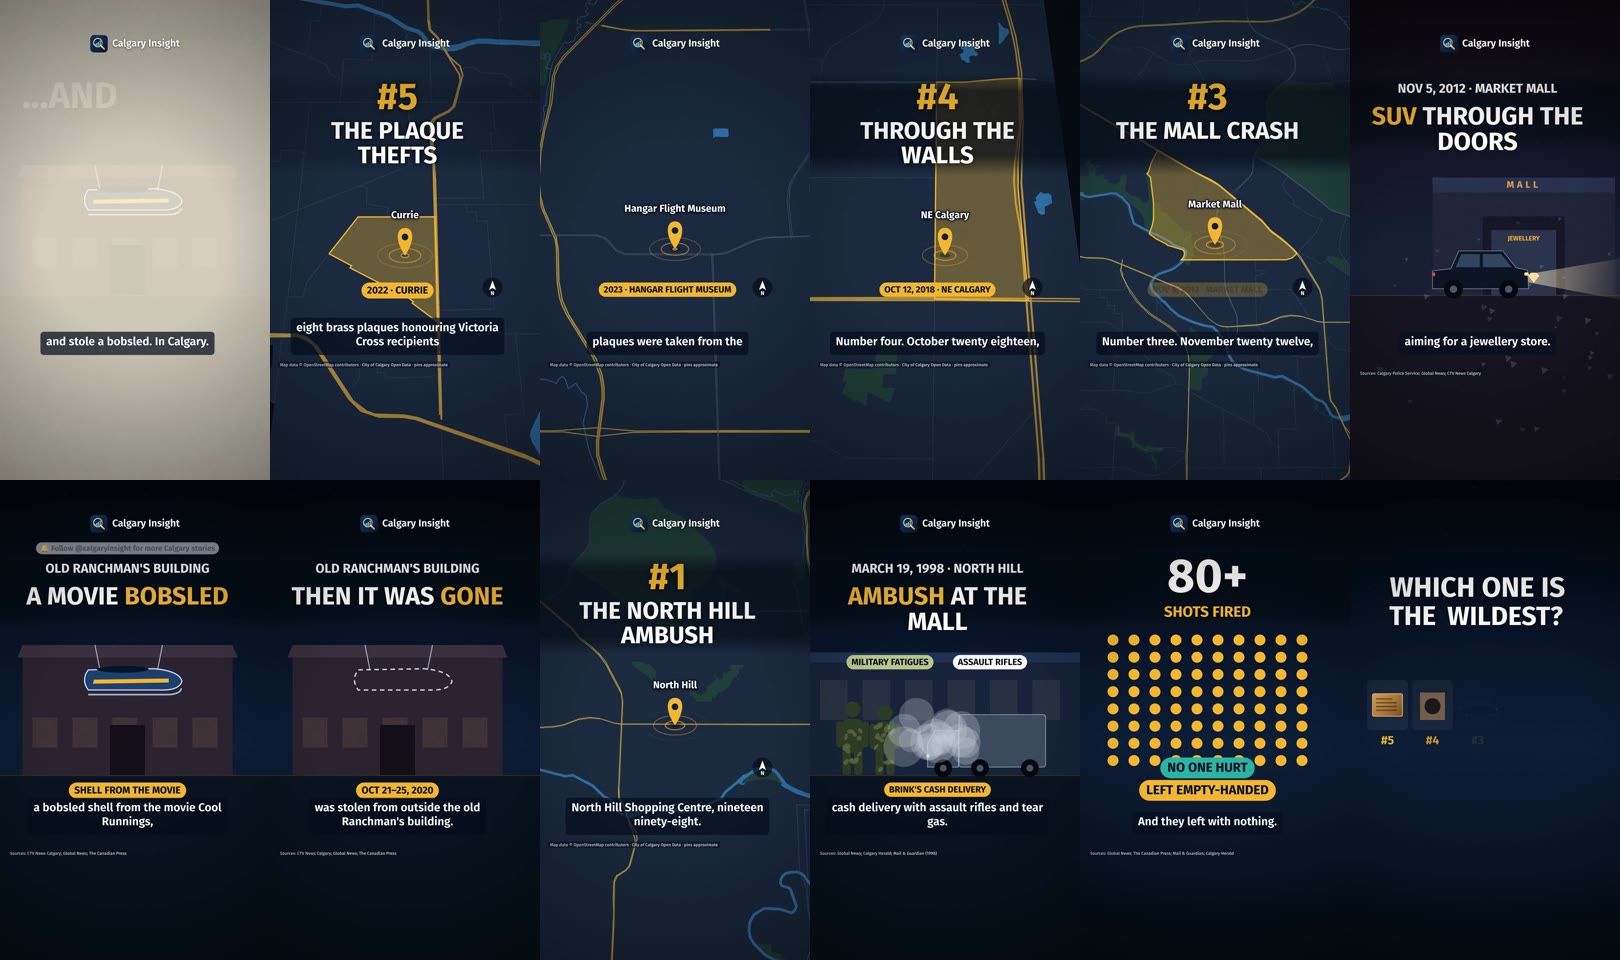
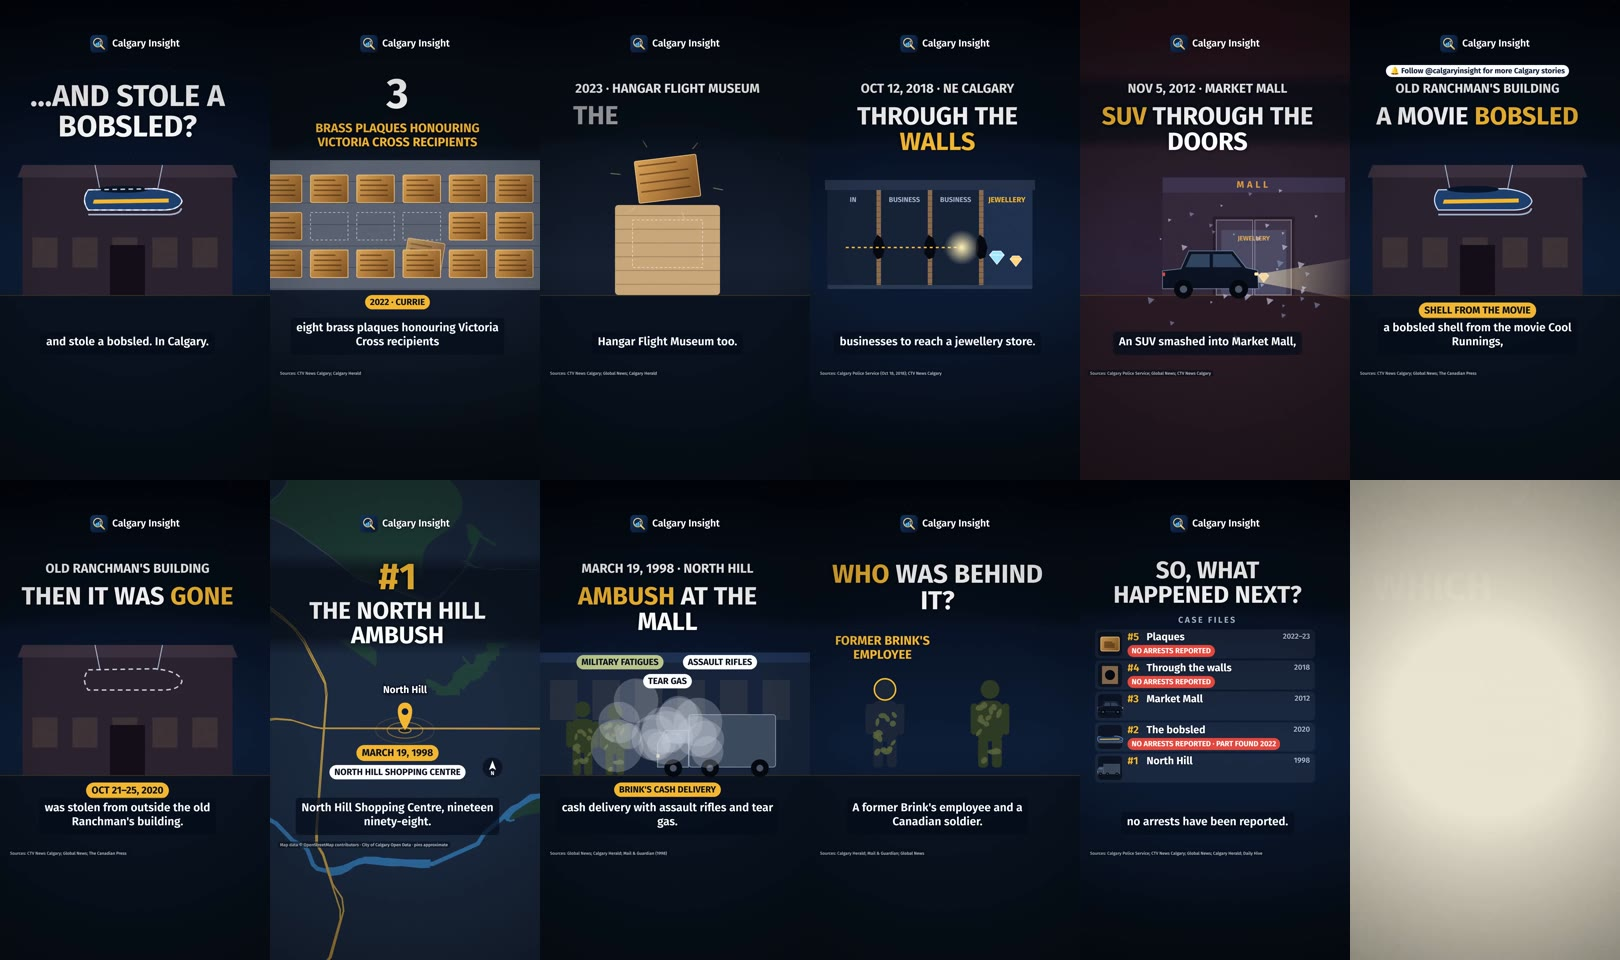
Heists special v2: conclusion (what happened next), re-audited APPROVED, scheduled Nov 20 19:30

diff --git a/production/2026-11-20-HEISTS/scene.js b/production/2026-11-20-HEISTS/scene.js
@@ -17,7 +17,10 @@ const S = M.script([
   { text: 'Nearly two years later, police found part of it. Only part.', dur: 3.194 },
   { text: "And number one. North Hill Shopping Centre, nineteen ninety-eight. Two men in military fatigues ambushed a Brink's cash delivery with assault rifles and tear gas.", dur: 9.655 },
   { text: 'More than eighty shots were fired. No one was hurt. And they left with nothing.', dur: 4.142 },
-  { text: "The men behind it? A former Brink's employee and a Canadian soldier. Both went to prison.", dur: 5.327 },
+  { text: "The men behind it? A former Brink's employee and a Canadian soldier.", dur: 4.046 },
+  { text: 'So, what happened next? For the plaques, the walls and the bobsled, no arrests have been reported.', dur: 5.229 },
+  { text: 'At Market Mall, police charged one man, and kept looking for a second suspect.', dur: 4.348 },
+  { text: 'And North Hill? Both men went to prison.', dur: 2.203 },
   { text: 'Which one is the wildest? Comment below.', dur: 2.32 },
 ], { lead: .3, gap: .3, tail: 1.4 });
 const sc = S.scenes;
@@ -166,6 +169,33 @@ function chapter(c, t, num, title, o = {}) {   // countdown chapter card (mini h
 }
 const src = (c, s) => M.source(c, s, 40, 1486, { size: 17 });
 
+// conclusion board: what happened next (rows stay in countdown order; statuses fill in as the narration names them)
+function board(c, T) {
+  night(c, T, { seed: 6 });
+  const L11 = 0, L12 = sc[11].sceneDur, L13 = sc[11].sceneDur + sc[12].sceneDur;
+  band(c, 290, 560, .72); M.kinetic(c, 'So, what happened next?', T, CX, 318, { t0: -.1, size: 96, maxW: 880, highlight: ['next?'] });
+  M.text(c, 'CASE FILES', CX, 545, { size: 34, weight: 800, align: 'center', color: '#9fb0c8', tracking: .2, alpha: M.seg(T, .3, .6) });
+  const rows = [
+    ['5', 'Plaques', '2022–23', 'NO ARRESTS REPORTED', RED, '#fff', L11 + 1.5, (x, y) => plaque(c, x, y, 74, 56)],
+    ['4', 'Through the walls', '2018', 'NO ARRESTS REPORTED', RED, '#fff', L11 + 2.3, (x, y) => { c.fillStyle = '#8a6b4f'; c.fillRect(x - 32, y - 36, 64, 72); c.fillStyle = '#05080f'; c.beginPath(); c.arc(x, y, 20, 0, 7); c.fill(); }],
+    ['3', 'Market Mall', '2012', '1 MAN CHARGED · 2ND SUSPECT SOUGHT', GOLD, '#06101f', L12 + .4, (x, y) => suv(c, x - 50, y + 30, .28)],
+    ['2', 'The bobsled', '2020', 'NO ARRESTS REPORTED · PART FOUND 2022', RED, '#fff', L11 + 3.1, (x, y) => sled(c, x - 52, y + 18, .3)],
+    ['1', 'North Hill', '1998', 'BOTH WENT TO PRISON', TEAL, '#06101f', L13 + .6, (x, y) => truck(c, x - 50, y + 30, .2)],
+  ];
+  rows.forEach(([n, name, yr, status, bg, fg, at, icon], i) => {
+    const y = 598 + i * 124, a = M.seg(T, .25 + i * .1, .55 + i * .1);
+    c.save(); c.globalAlpha = a; c.fillStyle = 'rgba(255,255,255,.06)'; M.rr(c, 60, y, 880, 116, 18); c.fill();
+    c.fillStyle = 'rgba(7,13,24,.7)'; M.rr(c, 72, y + 10, 96, 96, 14); c.fill(); icon(120, y + 58);
+    M.text(c, '#' + n, 190, y + 10, { size: 42, weight: 900, color: GOLD });
+    M.text(c, name, 266, y + 10, { size: 42, weight: 800, color: '#fff' }); M.text(c, yr, 920, y + 14, { size: 30, weight: 700, align: 'right', color: '#9fb0c8' });
+    c.restore();
+    const k = M.seg(T, at, at + .3); if (k > 0) { c.save(); c.globalAlpha = Math.min(1, k * 1.5); const sc2 = M.lerp(1.4, 1, M.ease.outBack(k)); c.translate(190, y + 86); c.scale(sc2, sc2); M.chip(c, status, 0, -24, { size: 30, bg, color: fg }); c.restore(); }
+    if (n === '1') { const b = M.seg(T, L13 + .3, L13 + .65, 'outCubic'); if (b > 0) { const by = M.lerp(y - 400, y, b); c.save(); c.beginPath(); c.rect(72, y + 10, 96, 96); c.clip(); c.fillStyle = 'rgba(160,170,185,.95)'; for (let j = 0; j < 5; j++) { M.rr(c, 78 + j * 20, by + 10, 8, 96, 3); c.fill(); } c.restore(); } }
+  });
+  src(c, 'Sources: Calgary Police Service; CTV News Calgary; Global News; Calgary Herald; Daily Hive');
+}
+
+
 window.BUILD = () => M.film({ W, H, identity: 'storyteller', scenes: [
   // 0 HOOK: frame 0 an SUV is already bursting through mall doors at night; then walls, then the empty bobsled outline
   { dur: sc[0].sceneDur, trans: { kind: 'whip', dur: .35 }, draw: (c, t) => {
@@ -304,14 +334,16 @@ window.BUILD = () => M.film({ W, H, identity: 'storyteller', scenes: [
       figure(c, 300, 1150, 1.25, { seed: 3, col: '#1b2638', hl: t > .9 && t < 2.6 }); figure(c, 720, 1150, 1.25, { seed: 8, col: '#2f3a24', hl: t > 2.4 && t < 3.9 });
       M.text(c, "FORMER BRINK'S EMPLOYEE", 290, 620, { size: 50, weight: 800, align: 'center', maxW: 400, color: GOLD, alpha: M.seg(t, .9, 1.2) });
       M.text(c, 'CANADIAN SOLDIER', 730, 620, { size: 50, weight: 800, align: 'center', maxW: 380, color: GOLD, alpha: M.seg(t, 2.4, 2.7) });
-      const bars = M.seg(t, 3.7, 4.1, 'outCubic'); if (bars > 0) { const by = M.lerp(-500, 790, bars); c.fillStyle = '#7d8796'; for (let i = 0; i < 9; i++) { M.rr(c, 90 + i * 100, by, 20, 400, 8); c.fill(); } c.fillRect(70, by - 10, 880, 24); }
       band(c, 290, 600, .7); M.kinetic(c, 'Who was behind it?', t, CX, 330, { t0: -.1, size: 104, maxW: 880, highlight: ['who'] });
-      stamp(c, 'BOTH WENT TO PRISON', CX, 1210, M.seg(t, 4.1, 4.5), { size: 56, color: GOLD });
       src(c, 'Sources: Calgary Herald; Mail & Guardian; Global News');
   } },
-  // 11 CLOSER: the five icons and the one-word question; no end card (video under 2:00)
-  { dur: sc[11].sceneDur, draw: (c, t) => {
-      night(c, t, { seed: 11 }); const p = M.seg(t, 0, sc[11].sceneDur, 'linear');
+  // 11–13 CONCLUSION: the case-files board fills in line by line (same picture across three narration lines)
+  { dur: sc[11].sceneDur, trans: { kind: 'cut' }, draw: (c, t) => board(c, t) },
+  { dur: sc[12].sceneDur, trans: { kind: 'cut' }, draw: (c, t) => board(c, t + sc[11].sceneDur) },
+  { dur: sc[13].sceneDur, trans: { kind: 'flash', dur: .3 }, draw: (c, t) => board(c, t + sc[11].sceneDur + sc[12].sceneDur) },
+  // 14 CLOSER: the five icons and the one-word question; no end card (video under 2:00)
+  { dur: sc[14].sceneDur, draw: (c, t) => {
+      night(c, t, { seed: 11 }); const p = M.seg(t, 0, sc[14].sceneDur, 'linear');
       M.kinetic(c, 'Which one is the wildest?', p * 3, CX, 380, { size: 112, maxW: 880, every: .06, highlight: ['wildest?'] });
       const ic = [['5', x => plaque(c, x, 900, 120, 90)], ['4', x => { c.fillStyle = '#8a6b4f'; c.fillRect(x - 50, 850, 100, 110); c.fillStyle = '#05080f'; c.beginPath(); c.arc(x, 905, 32, 0, 7); c.fill(); }], ['3', x => suv(c, x - 75, 950, .42)], ['2', x => sled(c, x - 75, 930, .42)], ['1', x => truck(c, x - 70, 950, .3)]];
       ic.forEach(([n, f], i) => { const x = 150 + i * 180, a = M.seg(t, .2 + i * .1, .5 + i * .1); c.save(); c.globalAlpha = a; c.fillStyle = 'rgba(255,255,255,.06)'; M.rr(c, x - 82, 800, 164, 200, 18); c.fill(); f(x); M.text(c, '#' + n, x, 1020, { size: 48, weight: 900, align: 'center', color: GOLD }); c.restore(); });
@@ -337,8 +369,10 @@ window.CUES = [
   { t: s_(7) - .18, sfx: 'whoosh', gain: -9 }, { t: s_(7) + 1.4, sfx: 'thud', gain: -10 }, { t: s_(7) + 2.05, sfx: 'stamp', gain: -7 },
   { t: s_(8) - 1.4, sfx: 'riser', gain: -12 }, { t: s_(8), sfx: 'boom', gain: -6 }, { t: s_(8) + 3.6 + 3.4, sfx: 'whoosh_rev', gain: -11 },
   { t: s_(9) - .18, sfx: 'whoosh', gain: -9 }, { t: s_(9) + .15, sfx: 'ticks', dur: 1.45, gain: -12 }, { t: s_(9) + 1.6, sfx: 'impact', gain: -7 }, { t: s_(9) + 1.85, sfx: 'pop', gain: -9 }, { t: s_(9) + 3.0, sfx: 'pop', gain: -9 },
-  { t: s_(10) - .18, sfx: 'whoosh', gain: -9 }, { t: s_(10) + 3.7, sfx: 'thud', gain: -5 }, { t: s_(10) + 4.1, sfx: 'stamp', gain: -7 },
-  { t: s_(11) - .2, sfx: 'whoosh', gain: -9 }, { t: s_(11) + .2, sfx: 'pop', gain: -11 },
+  { t: s_(10) - .18, sfx: 'whoosh', gain: -9 }, { t: s_(10) + .9, sfx: 'pop', gain: -11 }, { t: s_(10) + 2.4, sfx: 'pop', gain: -11 },
+  { t: s_(11) - .2, sfx: 'whoosh', gain: -8 }, { t: s_(11) + 1.6, sfx: 'stamp', gain: -10 }, { t: s_(11) + 2.4, sfx: 'stamp', gain: -10 }, { t: s_(11) + 3.2, sfx: 'stamp', gain: -10 },
+  { t: s_(12) + .5, sfx: 'stamp', gain: -9 }, { t: s_(13) + .3, sfx: 'thud', gain: -5 }, { t: s_(13) + .7, sfx: 'stamp', gain: -7 },
+  { t: s_(14) - .2, sfx: 'whoosh', gain: -9 }, { t: s_(14) + .2, sfx: 'pop', gain: -11 },
 ];
 
 // ---------- designed cover / thumbnail (render.py --param format=thumb --stills 0): key content inside the centre 1080×1350 ----------

diff --git a/packages/2026-11-20-SPECIAL-calgary-strangest-heists.md b/packages/2026-11-20-SPECIAL-calgary-strangest-heists.md
@@ -1,7 +1,7 @@
 # Calgary's strangest heists (SPECIAL, one-off history reel)
 
 - Slot: SPECIAL, approved by Hassan Ali on Nov 15, 2026 ("Yeah lets do it"). Posts Friday Nov 20, 2026 (true-crime Friday evening).
-- Format: native vertical 1080×1920, about 65–75 s, Kokoro `af_heart`, burned-in captions. Lead identity: Storyteller (countdown chapters, suspense), with Data Explainer counter slams and Civic Analyst map pins and evidence chips.
+- Format: native vertical 1080×1920, about 88 s, Kokoro `af_heart`, burned-in captions. Lead identity: Storyteller (countdown chapters, suspense), with Data Explainer counter slams and Civic Analyst map pins and evidence chips.
 - Tone: curious, wry, "you won't believe this happened here". No victims, no graphic detail, no glamorising, no names of anyone (convicted people described only by role). No news footage, photos, broadcaster logos, film stills or film artwork/logo: our own motion graphics only (generic bobsled, stylised mall, wall cutaway, plaques, generic armoured truck, north-up Calgary map from real geography).
 
 ## 1. Title and hooks
@@ -22,8 +22,11 @@
 | L7 | Nearly two years later, police found part of it. Only part. |
 | L8 | And number one. North Hill Shopping Centre, nineteen ninety-eight. Two men in military fatigues ambushed a Brink's cash delivery with assault rifles and tear gas. |
 | L9 | More than eighty shots were fired. No one was hurt. And they left with nothing. |
-| L10 | The men behind it? A former Brink's employee and a Canadian soldier. Both went to prison. |
-| L11 | Which one is the wildest? Comment below. |
+| L10 | The men behind it? A former Brink's employee and a Canadian soldier. |
+| L11 | So, what happened next? For the plaques, the walls and the bobsled, no arrests have been reported. |
+| L12 | At Market Mall, police charged one man, and kept looking for a second suspect. |
+| L13 | And North Hill? Both men went to prison. |
+| L14 | Which one is the wildest? Comment below. |
 
 ## 3. On-screen text (every label, in order)
 - S0: "CALGARY'S STRANGEST HEISTS 🕵" · "Thieves cut through WALLS…" · "…and stole a BOBSLED?"
@@ -36,8 +39,9 @@
 - S7: "2022: PART FOUND" · stamp "ONLY PART"
 - S8: "#1 THE NORTH HILL AMBUSH" · "MARCH 19, 1998 · NORTH HILL SHOPPING CENTRE" · "MILITARY FATIGUES · ASSAULT RIFLES · TEAR GAS"
 - S9: counter "80+ SHOTS" · chips "NO ONE HURT", "LEFT EMPTY-HANDED"
-- S10: "FORMER BRINK'S EMPLOYEE" · "CANADIAN SOLDIER" · stamp "BOTH WENT TO PRISON"
-- S11: "Which one is the wildest? Comment below 👇" · "calgaryinsight.ca"
+- S10: "FORMER BRINK'S EMPLOYEE" · "CANADIAN SOLDIER"
+- S11–S13 (conclusion, "CASE FILES" board): title "SO, WHAT HAPPENED NEXT?" · rows "#5 PLAQUES (2022, 2023) — NO ARRESTS REPORTED" · "#4 THROUGH THE WALLS (2018) — NO ARRESTS REPORTED" · "#2 BOBSLED (2020) — NO ARRESTS REPORTED · PART FOUND 2022" · "#3 MARKET MALL (2012) — 1 MAN CHARGED · 2ND SUSPECT SOUGHT" · "#1 NORTH HILL (1998) — BOTH WENT TO PRISON" (bars drop over the #1 row)
+- S14: "Which one is the wildest? Comment below 👇" · "calgaryinsight.ca"
 - Furniture: Calgary Insight header from 3 s; mid-video pill "🔔 Follow @calgaryinsight for more Calgary stories"; burned-in captions = narration (no spelled-out site name needed: the video does not speak it).
 - Map scenes carry "Map data © OpenStreetMap contributors · City of Calgary Open Data"; pins are placed at approximate locations.
 
@@ -75,14 +79,21 @@ More Calgary stories, studies and analysis:
 | C14 | More than eighty shots were fired | "More than 80 bullets were fired"; Herald: "nearly 90 rounds" | fact | https://globalnews.ca/news/256699/looking-back-calgarys-infamous-brinks-heist ; https://globalnews.ca/news/256730/armoured-car-murder-suspects-mother-pleads-for-her-sons-surrender-3/ ; https://www.pressreader.com/canada/calgary-herald/20120616/281642482247495 | body |
 | C15 | No one was hurt. And they left with nothing. | No one injured; robbers fled empty-handed | fact | https://globalnews.ca/news/256699/looking-back-calgarys-infamous-brinks-heist ; https://globalnews.ca/news/256730/armoured-car-murder-suspects-mother-pleads-for-her-sons-surrender-3/ ; https://mg.co.za/article/1998-08-07-sa-link-to-canada-cash-heist/ ("fled empty-handed") | body |
 | C16 | The men behind it: a former Brink's employee and a Canadian soldier | Brink's link: Herald ("worked for Brinks") and Mail & Guardian (Brink's Canada his "former employer"); soldier: Herald ("decorated Canadian Forces soldier", stationed at CFB Petawawa when arrested) and M&G (sergeant, paratrooper with the Canadian Armed Forces); Global (member of the disbanded Canadian Airborne) | fact | https://www.pressreader.com/canada/calgary-herald/20120616/281642482247495 ; https://mg.co.za/article/1998-08-07-sa-link-to-canada-cash-heist/ ; https://globalnews.ca/news/256699/looking-back-calgarys-infamous-brinks-heist (soldier only) | body |
-| C17 | Both went to prison | Soldier: 7 years; former Brink's employee: 8 years | fact | https://globalnews.ca/news/256699/looking-back-calgarys-infamous-brinks-heist ; https://www.pressreader.com/canada/calgary-herald/20120616/281642482247495 | body |
+| C17 | (S10/S13) Both went to prison | Soldier: 7 years; former Brink's employee: 8 years | fact | https://globalnews.ca/news/256699/looking-back-calgarys-infamous-brinks-heist ; https://www.pressreader.com/canada/calgary-herald/20120616/281642482247495 | body |
 | C18 | Map pins: Currie (SW), NE Calgary, Market Mall (NW), old Ranchman's (south), North Hill (NW) | Approximate locations on a north-up map from OpenStreetMap / City of Calgary data | fact (geography) | sources above; map: https://www.openstreetmap.org/copyright , https://data.calgary.ca/ | — |
+| C19 | For the plaques (Currie 2022, Hangar 2023), no arrests have been reported | No arrest or charge reported in the original coverage or in the Calgary Herald's 2026 follow-ups (Feb 20, 2026 overview of plaque thefts; Aug 11, 2026 Hangar replica theft: "the investigation hasn't gone very far yet" refers to the new theft). The only plaque arrests in that coverage are a separate Queen's Park Cemetery case | fact (absence of reported arrests, as of Aug 2026) | https://calgary.ctvnews.ca/8-memorial-plaques-honouring-canadian-war-heroes-stolen-from-victoria-cross-blvd-1.5994552 ; https://www.ctvnews.ca/calgary/article/thieves-steal-7-plaques-honouring-allied-air-efforts-from-calgary-museum/ ; https://ca.news.yahoo.com/crime-opportunity-why-memorial-plaques-001847636.html ; https://ca.news.yahoo.com/five-memorial-plaques-stolen-hangar-213310848.html | body |
+| C20 | For the walls (2018 NE jewellery store), no arrests have been reported | Police asked the public for help (culprits unknown); CTV: police seeking an "unknown number of suspects"; no later police release or news report of an arrest found | fact (absence of reported arrests) | https://newsroom.calgary.ca/police-seek-public-assistance-in-theft-of-jewellery-and-cash/ ; https://calgary.ctvnews.ca/thieves-cut-through-walls-of-multiple-businesses-to-rob-calgary-jewelry-store-1.4140043 | body |
+| C21 | For the bobsled, no arrests have been reported (part found 2022) | Daily Hive, Aug 11, 2022: "No suspects have been identified at this time"; CP/CTV Aug 10, 2022: part returned to owner, police still looking for the rest, no arrest mentioned | fact (absence of reported arrests) | https://dailyhive.com/calgary/calgary-police-find-bobsled-cool-runnings ; https://calgary.ctvnews.ca/police-say-part-of-stolen-cool-runnings-bobsled-has-been-found-returned-to-owner-1.6022383 | body |
+| C22 | At Market Mall, police charged one man, and kept looking for a second suspect (no conviction claimed or implied) | Calgary Police, Mar 18, 2013: a 27-year-old man charged (two counts break and enter, possession of stolen property over $5,000); "police continue to look for a second suspect". Global, Nov 6, 2012: police hunting two suspects. No court outcome is claimed | fact | https://newsroom.calgary.ca/charges--mall-break-in/ ; https://globalnews.ca/news/305571/update-police-search-for-two-suspects-after-market-mall-jewellery-heist | body |
+| C23 | And North Hill? Both men went to prison. | Soldier: 7 years; former Brink's employee: 8 years (same as C17) | fact | https://globalnews.ca/news/256699/looking-back-calgarys-infamous-brinks-heist ; https://www.pressreader.com/canada/calgary-herald/20120616/281642482247495 | body |
 
 Audit round 1 (NOT APPROVED) fixes applied: dropped "stolen" (SUV) and "the mall was empty" (one source each); "2 WALLS" → "THROUGH 2 BUSINESSES" with the entry business shown; "Nearly two years later"; "bobsled shell"; plaques described as honouring Victoria Cross recipients and "were stolen"; no hoisting shown; calgaryinsight.ca on its own caption line; sources corrected for C2, C11, C12, C16. The caption keeps "🔗 Link in the first comment (Instagram: link in bio)" word for word because the run brief and PLAYBOOK 0b rule 4 require that exact line (an ordinal word, not a figure).
 
 Audit round 2 (NOT APPROVED) fixes applied: "a former soldier" → "a Canadian soldier" (he was serving at the time; L10 and S10); C16 and C17 source notes corrected.
 
 Audit round 3 (NOT APPROVED; all 18 claims PASS): two caption/table items flagged and fixed exactly as the auditor specified: caption "that went very wrong" → "that came away empty-handed"; "armoured-car robbery" added to C13 with the Herald and M&G. Advisory (not required): only the Herald photo caption dates the Currie theft to 2022 (CTV pages undated). Under PLAYBOOK 3b the cap is three rounds, so this run does not auto-schedule: the posts wait for Hassan's go-ahead.
+
+Revision 2 (Hassan, Nov 15, 2026: "add a conclusion: what happened to each heist, caught and charged or still on the run"): L10 shortened; conclusion L11–L13 and the CASE FILES board added; claims C19–C23 added; audited again as a new round (A: NOT APPROVED, "who got caught?" framing implied the charged man's guilt → "what happened next?", "a second suspect", C20 quote fixed; B: see audits).
 
 Left out on purpose (not strong enough or against the rules): the cash amount in the Brink's truck (Global says $300,000, the Herald "nearly $400,000"; not used); the arrest "stepping off a ferry in France" (only one readable source; CBC pages could not be loaded); the $650,000 figure for the 2018 store (CTV only; police said "undisclosed"); the store's reopening date (one undated source); the Aug 2026 theft of the Hangar's aluminum replica plaques (one source); the sea-can container fraud (not researched to a conviction, skipped as the brief allows); every personal name.
 
@@ -106,7 +117,7 @@ Mid-video hooks: countdown chapter cards every ~10–15 s (#5 → #1).
 | 9 | 63.51 | 4.44 | 80 dots fill, counter "80+ SHOTS FIRED"; chips "NO ONE HURT", "LEFT EMPTY-HANDED" | dot counter | zoom |
 | 10 | 67.95 | 5.63 | Two silhouettes labelled FORMER BRINK'S EMPLOYEE / CANADIAN SOLDIER; bars drop; stamp "BOTH WENT TO PRISON" | labels, stamp | push |
 | 11 | 73.57 | 3.72 | "Which one is the wildest?" + five numbered icons + "Comment below 👇" + calgaryinsight.ca (no end card: under 2:00) | closer | end |
-Total 77.3 s, 30 fps, 1080×1920.
+Total 77.3 s in v1; v2 adds S11–S13, the CASE FILES conclusion board (rows fill in as the narration names each outcome; bars over the #1 icon), total 88.7 s, 30 fps, 1080×1920.
 
 **AI video prompts (not run; for an optional paid version).** S0: "Night, empty suburban mall entrance, a dark generic SUV bursts through glass doors, shards in slow motion, red alarm light, low angle, 9:16, stylised, no people, no logos." S2: "Stone memorial wall with rows of bronze plaques, eight empty rectangles where plaques were removed, soft dawn light, slow push-in, 9:16." S4: "Architectural cross-section of four strip-mall units at night, a torch beam moving through two broken interior walls toward a jewellery case, 9:16." S6: "A navy-and-gold generic bobsled hanging under the roof of a low western-style building at night, then only chains remain, 9:16, no film branding." S8: "Unmarked armoured truck outside a 1990s mall at midnight, two silhouettes in camouflage fatigues, drifting tear-gas cloud, no weapons visible, 9:16." Continuity: same navy/gold night grade throughout; no real logos, people or film artwork.
 
@@ -123,5 +134,5 @@ Total 77.3 s, 30 fps, 1080×1920.
 | No footage/photos/logos/film art | 2 | own vector graphics only |
 | Ending ≤ 4 s, no end card | 2 | closer 3.7 s |
 | Sound and loudness | 2 | −14.0 LUFS, voice on top |
-| Size | 1 | 11.9 MB (aim ≤ 10 MB; accepted for social) |
+| Size | 1 | 12.9 MB, 88.7 s after the conclusion was added (aim ≤ 10 MB; accepted for social) |
 Captions were checked against the narration (fixed a split of "a.m." before the final render).

diff --git a/audits/2026-11-20-SPECIAL.md b/audits/2026-11-20-SPECIAL.md
@@ -38,3 +38,13 @@ Independent general-purpose auditor subagents (a new one each round), given only
 - Fixes: both applied exactly as specified by the auditor. No fourth round was run (PLAYBOOK 3b caps at three), so the final verdict on record is **NOT APPROVED (round 3; all claims pass, caption fixes applied as specified)** and the posts are not auto-scheduled until Hassan says go.
 
 Checks that passed in round 3: numbers in words match; on-screen dates match; every hook paid off; no person named (convicted men by role only); no victims, graphic detail or glamorising; respectful wording on the memorial plaques; own motion graphics only (no footage, photos, broadcaster logos, film stills or film art); caption hook, no figures, neutral question with "Drop your thoughts below 👇", no YouTube link, calgaryinsight.ca on its own line, five hashtags; opening visual + text hook, closing question, follow pill and calgaryinsight.ca on screen; no "Canada Insight".
+
+## Revision 2 (Hassan, Nov 15, 2026: add a conclusion on what happened in each case)
+New lines L10–L13 and the "CASE FILES" board; claims C19–C23 (outcomes). Two fresh auditors, each given the full sections 1–5.
+
+### Round A: NOT APPROVED (all 23 claims PASS)
+- Blocking flag: "So, who got caught?" led straight into "police charged one man", implying the charged (never convicted) Market Mall man was caught for the heist. Fixed exactly as specified: L11 "So, what happened next? …", board title "SO, WHAT HAPPENED NEXT?", L12 "…kept looking for a second suspect." C20 quote corrected to "unknown number of suspects"; length line updated to about 88 s.
+
+### Round B: **APPROVED**
+- C1–C23 all PASS (C19–C21: no arrest or charge found in the original or latest coverage, incl. Herald Feb and Aug 2026 and Daily Hive Aug 2022; the only plaque charges found are the separate Queen's Park Cemetery case. C22: Calgary Police, Mar 18, 2013, one man charged, "police continue to look for a second suspect"; nothing later found; no conviction implied).
+- Flags: none. Advisories (no change needed): Currie year rests on the Herald photo caption plus CTV article numbering; "stole a bobsled" in the hook is headline shorthand for the shell; no court outcome found for the charged Market Mall man, so "charged" only.
